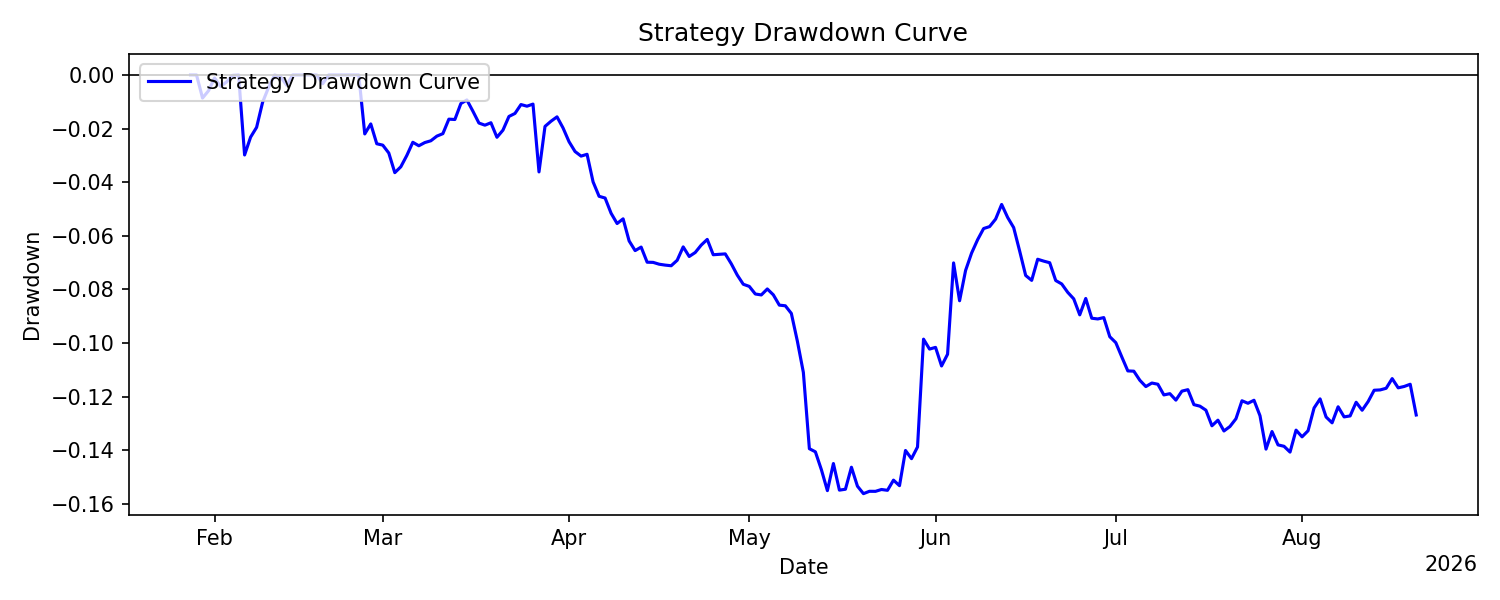
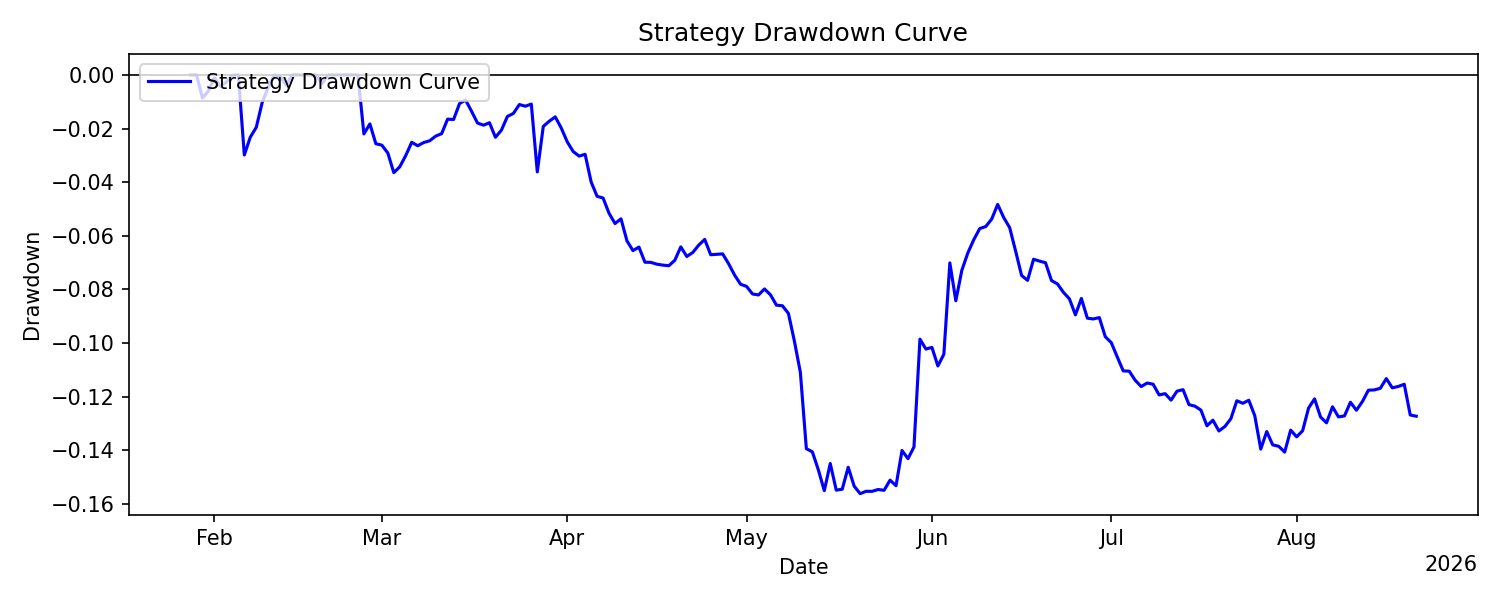
Update reports: 2026-08-21 00:00:19 UTC

diff --git a/README.md b/README.md
@@ -22,28 +22,28 @@ All results are live and reported net of transaction costs and slippage.
 - CSV: `metrics_strategy.csv`
 
 <!-- METRICS_START -->
-| metric                       |        values |
-|:-----------------------------|--------------:|
-| Number of Observations       | 205           |
-| Mean Daily Return            |  -0.000348216 |
-| Daily Volatility             |   0.00820249  |
-| Mean Annualized Return       |  -0.127099    |
-| Annualized Volatility        |   0.156708    |
-| Maximum Drawdown             |  -0.156146    |
-| Max Drawdown Duration (Days) | 176           |
-| Sharpe                       |  -0.811053    |
-| Sortino                      |  -1.1123      |
-| Calmar                       |  -0.813974    |
-| CAGR                         |  -0.130042    |
-| Skewness                     |   0.645995    |
-| Excess Kurtosis              |   8.87202     |
-| Win Rate                     |   0.482927    |
-| Profit Factor                |   0.875568    |
-| VaR 1%                       |  -0.0268206   |
-| CVaR 1%                      |  -0.0295742   |
-| VaR 5%                       |  -0.0111828   |
-| CVaR 5%                      |  -0.0195073   |
-| Correlation with BTC         |   0.00859145  |
+| metric                       |       values |
+|:-----------------------------|-------------:|
+| Number of Observations       | 206          |
+| Mean Daily Return            |  -0.00034904 |
+| Daily Volatility             |   0.00818247 |
+| Mean Annualized Return       |  -0.127399   |
+| Annualized Volatility        |   0.156326   |
+| Maximum Drawdown             |  -0.156146   |
+| Max Drawdown Duration (Days) | 177          |
+| Sharpe                       |  -0.814961   |
+| Sortino                      |  -1.11671    |
+| Calmar                       |  -0.8159     |
+| CAGR                         |  -0.130252   |
+| Skewness                     |   0.647848   |
+| Excess Kurtosis              |   8.92915    |
+| Win Rate                     |   0.480583   |
+| Profit Factor                |   0.874779   |
+| VaR 1%                       |  -0.0268076  |
+| CVaR 1%                      |  -0.0295742  |
+| VaR 5%                       |  -0.0111456  |
+| CVaR 5%                      |  -0.0195073  |
+| Correlation with BTC         |  -0.0137095  |
 <!-- METRICS_END -->
 
 ## Sharpe Statistics
@@ -55,14 +55,14 @@ All results are live and reported net of transaction costs and slippage.
 | metric                     |   values |
 |:---------------------------|---------:|
 | alpha                      |   0.05   |
-| t-statistic                |  -0.6078 |
-| p-value                    |   0.544  |
-| Daily Sharpe Ratio         |  -0.0425 |
-| Annualized Sharpe Ratio    |  -0.8111 |
-| Sharpe Standard Error      |   1.3591 |
-| C.I. Lower Bound           |  -3.4748 |
-| C.I. Upper Bound           |   1.8527 |
-| Bootstrap C.I. Lower Bound |  -3.8639 |
-| Bootstrap C.I. Upper Bound |   2.5723 |
+| t-statistic                |  -0.6122 |
+| p-value                    |   0.5411 |
+| Daily Sharpe Ratio         |  -0.0427 |
+| Annualized Sharpe Ratio    |  -0.815  |
+| Sharpe Standard Error      |   1.3559 |
+| C.I. Lower Bound           |  -3.4725 |
+| C.I. Upper Bound           |   1.8426 |
+| Bootstrap C.I. Lower Bound |  -3.8358 |
+| Bootstrap C.I. Upper Bound |   2.5578 |
 <!-- SHARPE_END -->
 
